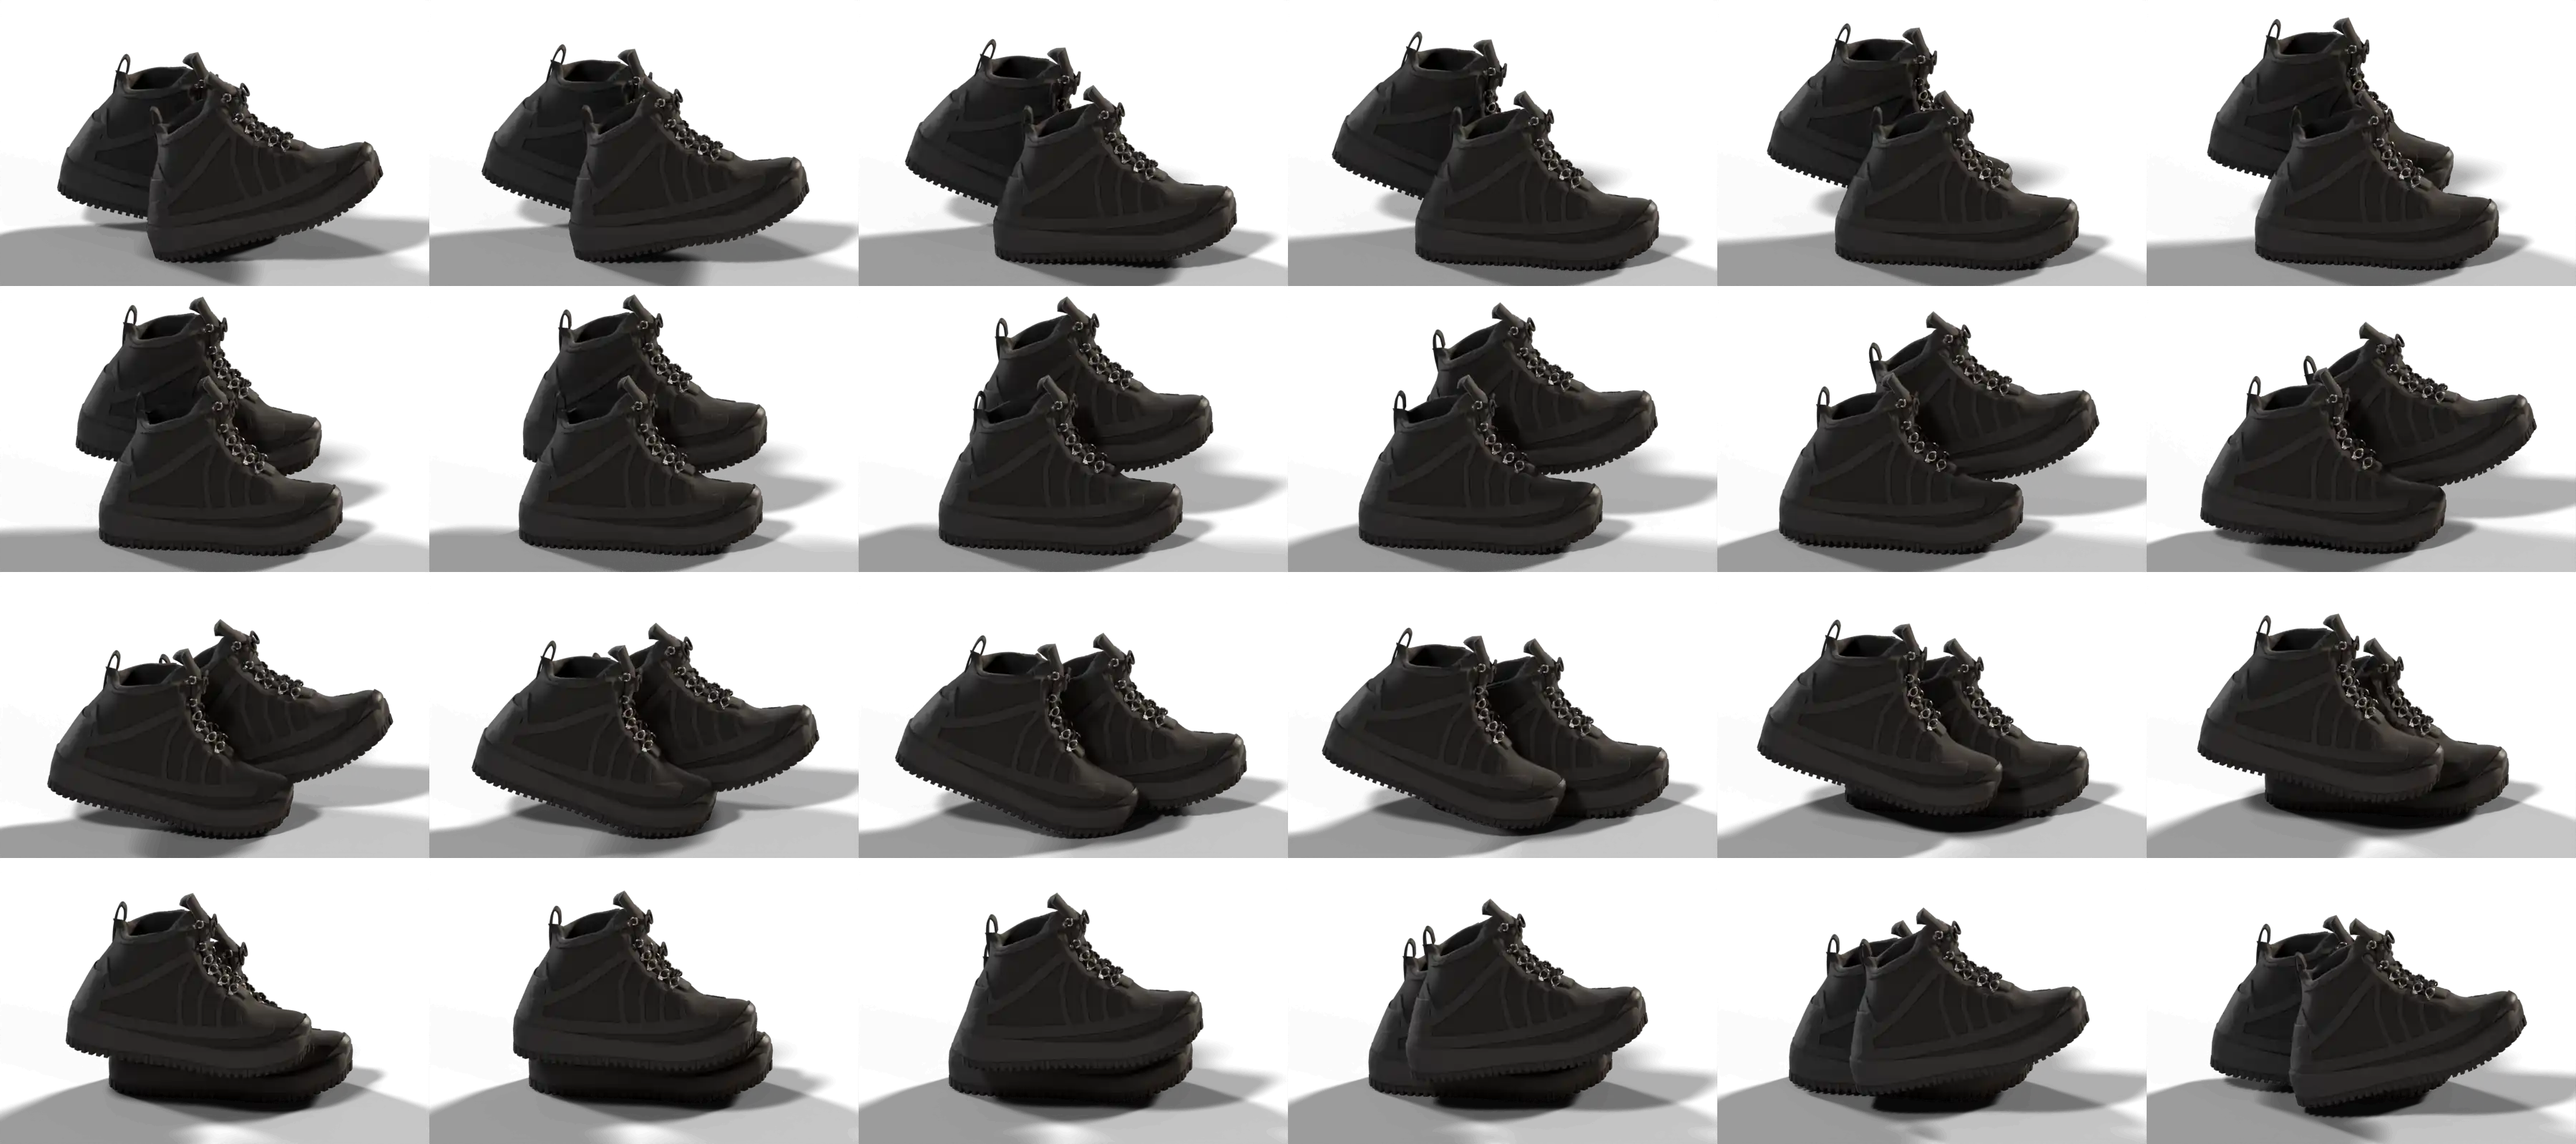
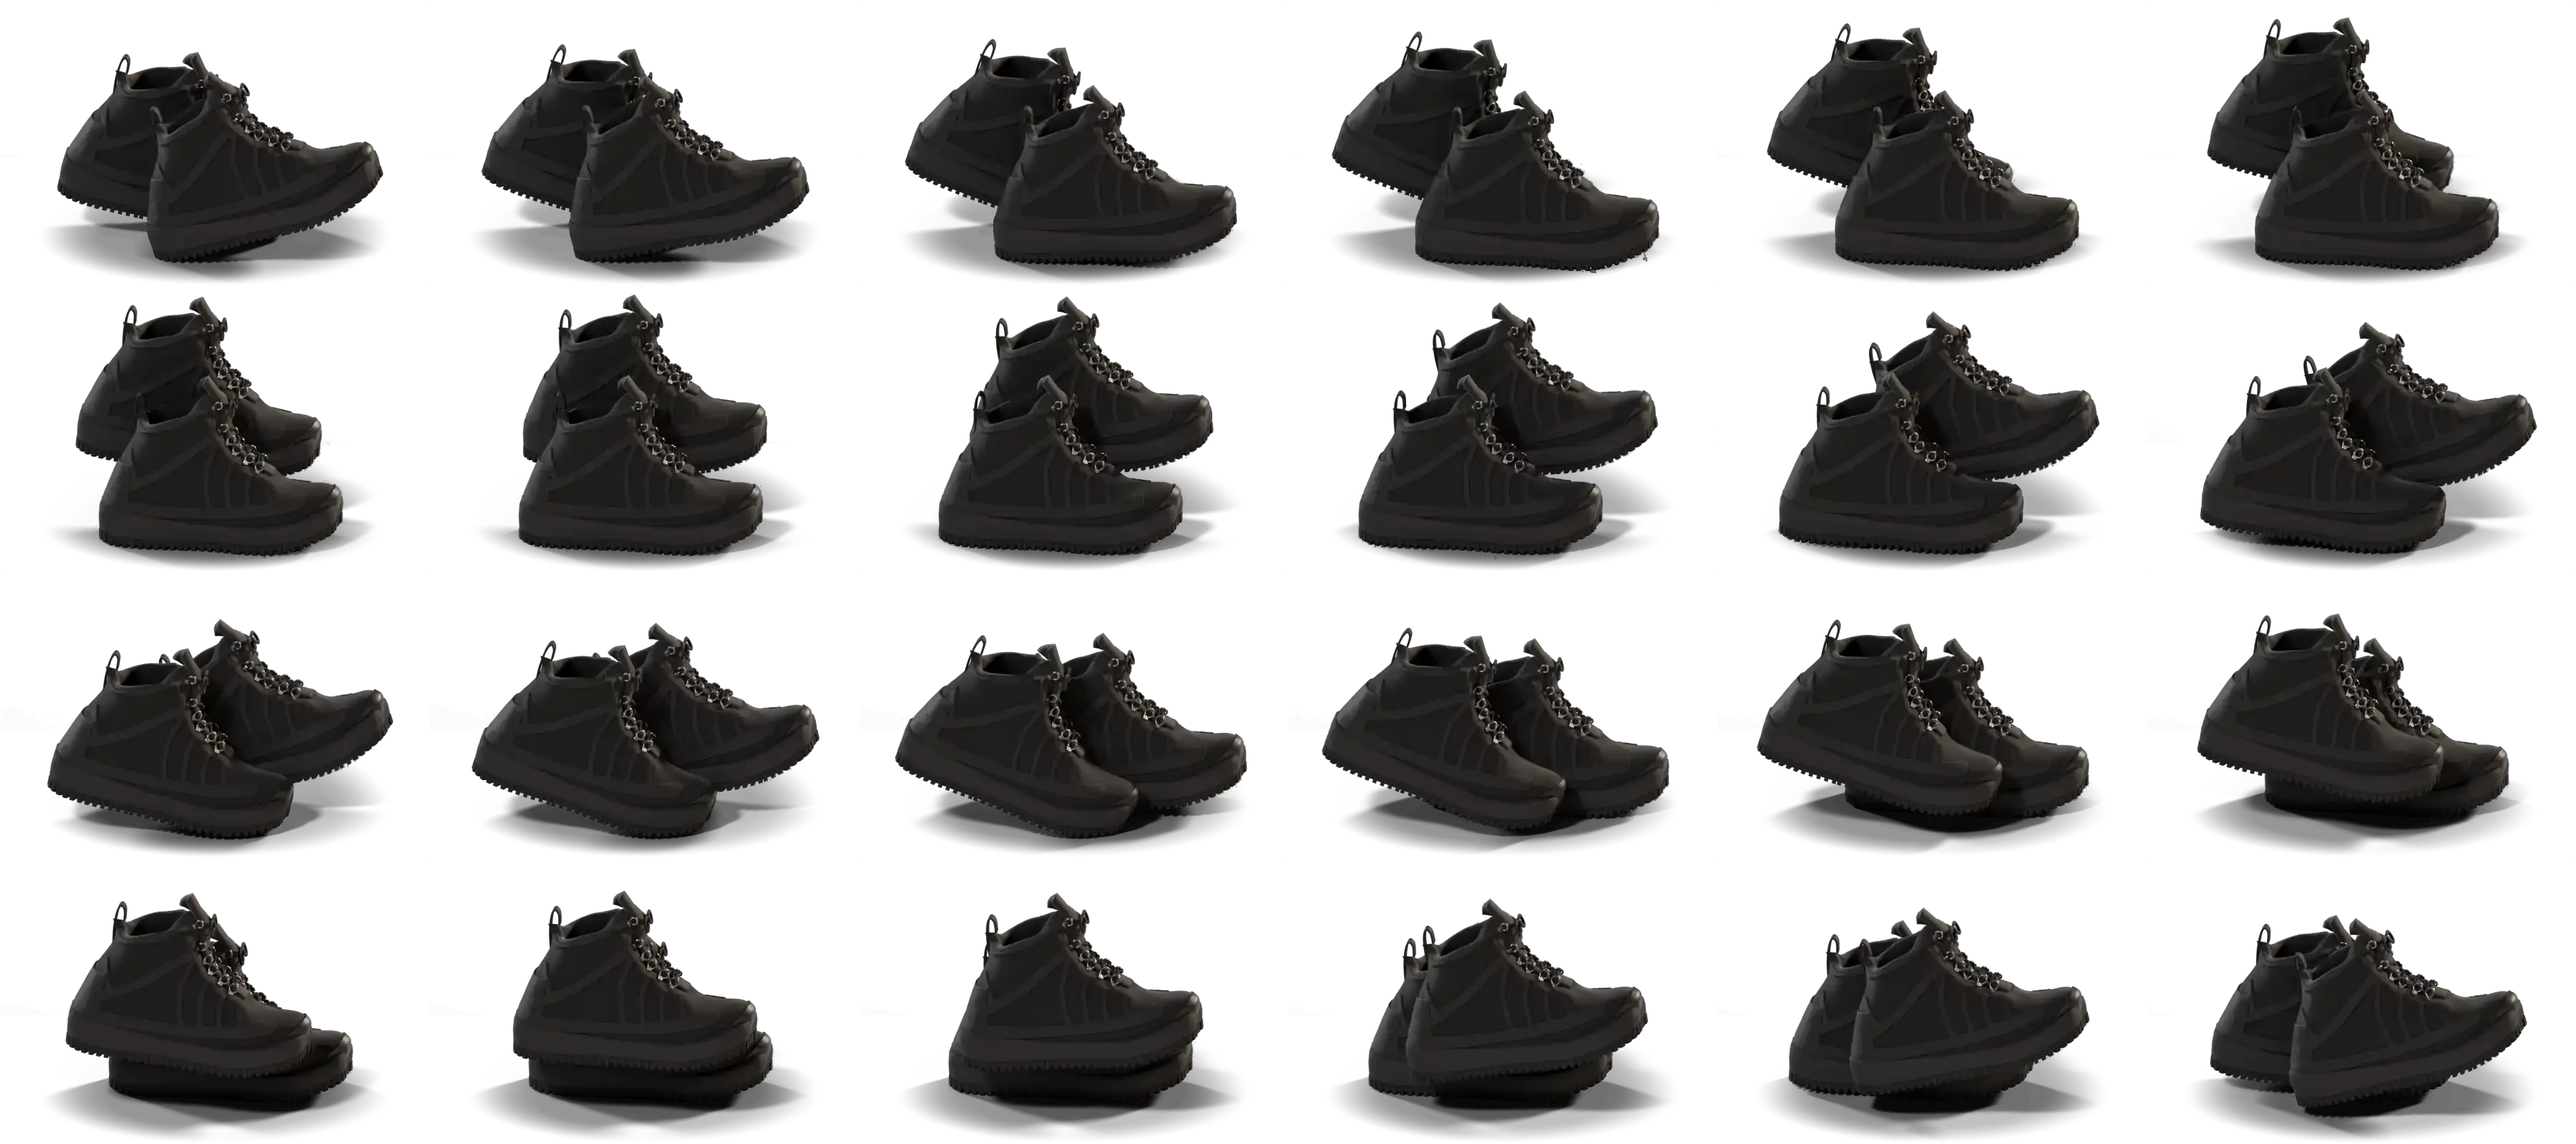
Loader sprite: fade the floor shadow before the frame edges (hard dark strip on the loader); no focus ring on programmatically focused page headings

diff --git a/client/src/theme/theme.js b/client/src/theme/theme.js
@@ -52,6 +52,9 @@ export const theme = createTheme({
         body: { backgroundColor: t.ground, color: t.ink, WebkitFontSmoothing: 'antialiased', MozOsxFontSmoothing: 'grayscale', overflowX: 'clip' },
         '::selection': { backgroundColor: t.gold, color: t.onGold },
         ':focus-visible': { outline: `2px solid ${t.goldLight}`, outlineOffset: 2 },
+        // Headings only receive focus programmatically (RouteTransition moves focus to the page h1 for screen readers):
+        // no ring on those, they are not controls.
+        '[tabindex="-1"]:focus, [tabindex="-1"]:focus-visible': { outline: 'none' },
         'img, svg, canvas': { display: 'block' },
         'input:-webkit-autofill': { WebkitBoxShadow: `0 0 0 100px ${t.surface2} inset`, WebkitTextFillColor: t.ink, caretColor: t.ink },
         '@media (prefers-reduced-motion: reduce)': {
